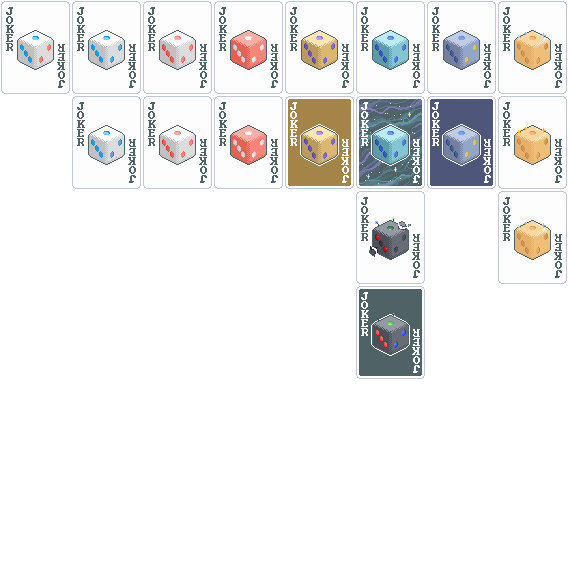
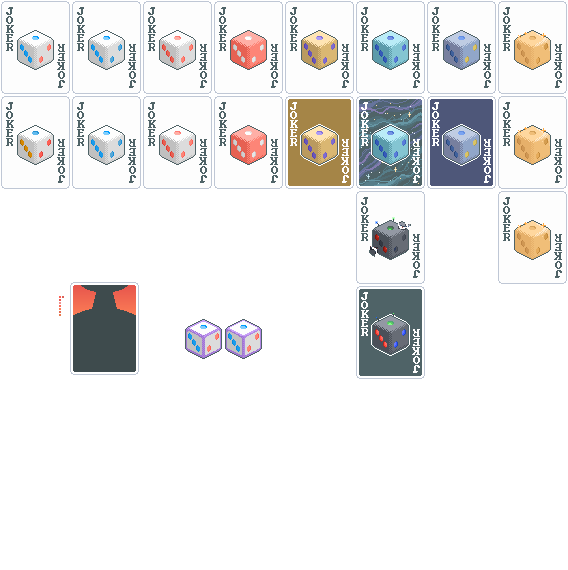
0.7.1 Update
- Added D6 Consumables atlas + Override texture
- Weighted is reworked: 3 in 4 chance to roll selected
- All D6 Consumabled have a 50% fixed chance to not appear if a D6 Joker does not exist
- D6 Consumables can be "reserved" which is TOTALLY not borrowed from Cryptid :]

Changed region(s): [[0.1197, 0.4772, 0.2394, 0.6561], [0.0, 0.1789, 0.1197, 0.3281], [0.3292, 0.5667, 0.4789, 0.6263]]

diff --git a/TODO.md b/TODO.md
@@ -35,7 +35,7 @@
 - [ ] Reconstruction (Tarot)
 - [ ] The Die Wielder (Tarot)
 - [ ] Transplant (Tarot)
-- [ ] Override (Spectral)
+- [x] Override (Spectral)
 - [ ] Purification (Spectral)
 - [ ] Lightshow (Tarot)
 - [ ] Duplication (Spectral)
